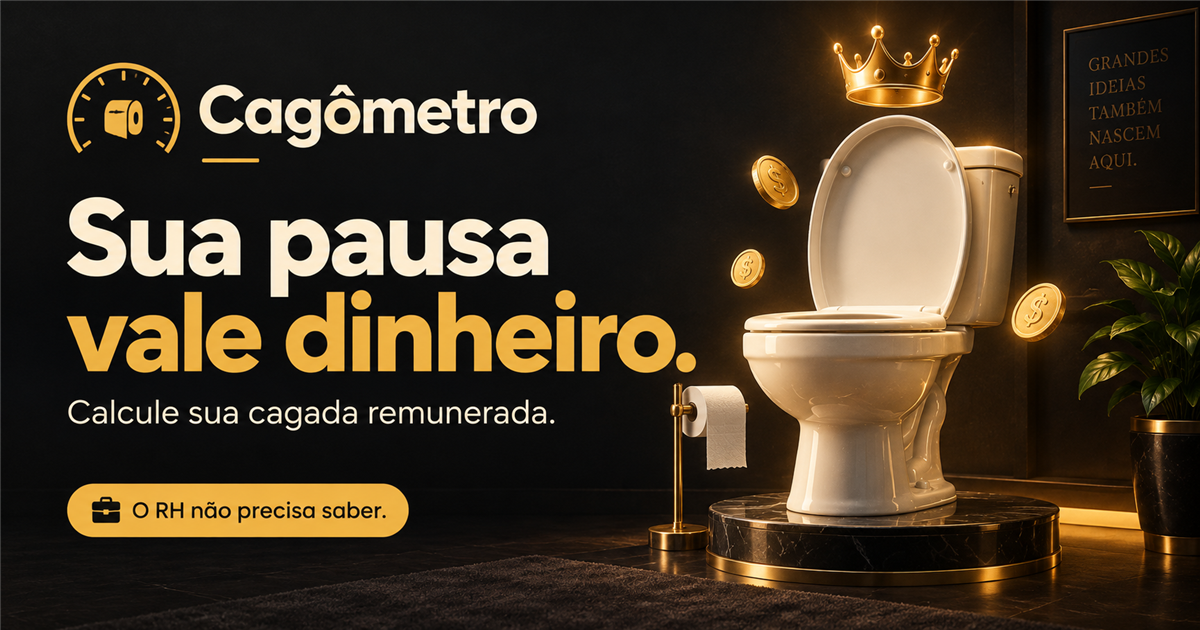
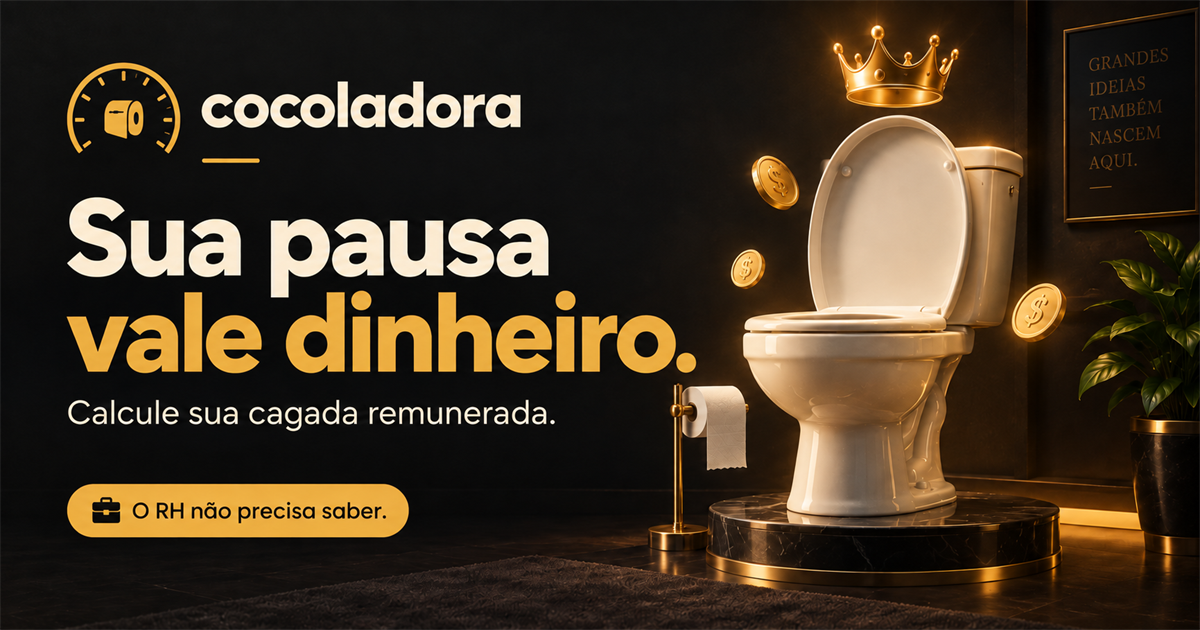
Renomeia o projeto para cocoladora
# Conflicts:
#	README.md

diff --git a/index.html b/index.html
@@ -4,26 +4,26 @@
   <meta charset="UTF-8">
   <meta name="viewport" content="width=device-width, initial-scale=1">
   <meta name="theme-color" content="#101216">
-  <title>Cagômetro | Calculadora de Cagada Remunerada</title>
+  <title>cocoladora | Calculadora de Cagada Remunerada</title>
   <meta name="description" content="Descubra quanto você ganha cagando no trabalho. Calcule sua pausa remunerada, acompanhe o tempo no trono e compartilhe seu extrato com a firma.">
-  <!-- Antes de publicar, substitua https://cagometro.example pelo domínio real em todas as tags abaixo. -->
-  <link rel="canonical" href="https://cagometro.example/">
+  <!-- Antes de publicar, substitua https://cocoladora.example pelo domínio real em todas as tags abaixo. -->
+  <link rel="canonical" href="https://cocoladora.example/">
   <meta property="og:locale" content="pt_BR">
-  <meta property="og:site_name" content="Cagômetro">
+  <meta property="og:site_name" content="cocoladora">
   <meta property="og:type" content="website">
-  <meta property="og:url" content="https://cagometro.example/">
-  <meta property="og:title" content="Sua pausa vale dinheiro. 💸 | Cagômetro">
+  <meta property="og:url" content="https://cocoladora.example/">
+  <meta property="og:title" content="Sua pausa vale dinheiro. 💸 | cocoladora">
   <meta property="og:description" content="Quanto você ganha no trono da firma? Calcule sua cagada remunerada. O RH não precisa saber.">
-  <meta property="og:image" content="https://cagometro.example/og-image.png">
+  <meta property="og:image" content="https://cocoladora.example/og-image.png">
   <meta property="og:image:width" content="1200">
   <meta property="og:image:height" content="630">
   <meta property="og:image:type" content="image/png">
-  <meta property="og:image:alt" content="Cagômetro: Sua pausa vale dinheiro. Um trono de porcelana com coroa e moedas douradas.">
+  <meta property="og:image:alt" content="cocoladora: Sua pausa vale dinheiro. Um trono de porcelana com coroa e moedas douradas.">
   <meta name="twitter:card" content="summary_large_image">
-  <meta name="twitter:title" content="Cagômetro — Sua pausa vale dinheiro.">
+  <meta name="twitter:title" content="cocoladora — Sua pausa vale dinheiro.">
   <meta name="twitter:description" content="Calcule sua cagada remunerada. O RH não precisa saber.">
-  <meta name="twitter:image" content="https://cagometro.example/og-image.png">
-  <meta name="twitter:image:alt" content="Sua pausa vale dinheiro. Calcule sua cagada remunerada no Cagômetro.">
+  <meta name="twitter:image" content="https://cocoladora.example/og-image.png">
+  <meta name="twitter:image:alt" content="Sua pausa vale dinheiro. Calcule sua cagada remunerada no cocoladora.">
   <link rel="icon" href="favicon.svg" type="image/svg+xml">
   <link rel="icon" href="favicon.png" type="image/png" sizes="32x32">
   <link rel="apple-touch-icon" href="apple-touch-icon.png">
@@ -32,12 +32,12 @@
   <link href="https://fonts.googleapis.com/css2?family=Outfit:wght@400;500;600;700;800&family=Space+Grotesk:wght@400;500;600;700&display=swap" rel="stylesheet">
   <link rel="stylesheet" href="style.css">
   <script src="script.js" defer></script>
-  <script type="application/ld+json">{"@context":"https://schema.org","@type":"WebApplication","name":"Cagômetro","description":"Calculadora divertida de pausas remuneradas no trabalho.","applicationCategory":"EntertainmentApplication","operatingSystem":"Any","inLanguage":"pt-BR","offers":{"@type":"Offer","price":"0","priceCurrency":"BRL"}}</script>
+  <script type="application/ld+json">{"@context":"https://schema.org","@type":"WebApplication","name":"cocoladora","description":"Calculadora divertida de pausas remuneradas no trabalho.","applicationCategory":"EntertainmentApplication","operatingSystem":"Any","inLanguage":"pt-BR","offers":{"@type":"Offer","price":"0","priceCurrency":"BRL"}}</script>
 </head>
 <body>
   <a class="skip" href="#calculadora">Pular para a calculadora</a>
   <header class="header shell">
-    <a class="brand" href="#" aria-label="Cagômetro, início"><span class="brand-icon" aria-hidden="true">🧻</span>Cagômetro<span class="brand-dot">®</span></a>
+    <a class="brand" href="#" aria-label="cocoladora, início"><span class="brand-icon" aria-hidden="true">🧻</span>cocoladora<span class="brand-dot">®</span></a>
     <nav aria-label="Navegação principal"><a href="#calculadora">Calculadora</a><a href="#trono">Modo trono</a></nav>
     <button class="theme-toggle" id="theme" aria-label="Ativar tema claro" title="Trocar tema">☀</button>
   </header>
@@ -82,7 +82,7 @@
         <div class="receipt-rule"></div>
         <div class="receipt-stats"><div><span aria-hidden="true">◷</span><strong id="annual-time">2,8 dias</strong><small>no trono por ano</small></div><div><span aria-hidden="true">🧻</span><strong id="paper">27 rolos</strong><small>de papel estimados / ano</small></div></div>
         <button type="button" class="button share-button" id="share-open">Compartilhar meu extrato <span aria-hidden="true">↗</span></button>
-        <div class="receipt-bottom">CAGÔMETRO <span>COMPROVANTE NÃO FISCAL ;)</span></div>
+        <div class="receipt-bottom">COCOLADORA <span>COMPROVANTE NÃO FISCAL ;)</span></div>
         <span id="calculation-status" class="sr-only" role="status"></span>
       </article>
     </section>
@@ -100,7 +100,7 @@
     <section class="how"><details><summary>Tá, mas como essa conta funciona? <span aria-hidden="true">+</span></summary><p>Dividimos o salário pelos dias trabalhados e pelas horas por dia para encontrar o valor da sua hora. Multiplicamos esse valor pelo tempo diário no banheiro. O ano considera 12 meses iguais, sem férias, feriados ou 13º. O tempo anual é convertido em dias de 24 horas. Para o papel, a brincadeira estima 20 folhas por dia de trabalho e 200 folhas por rolo. Não é renda extra: é uma estimativa da parcela do seu salário correspondente às pausas.</p></details><details><summary>Últimas sessões no trono <span aria-hidden="true">+</span></summary><ul id="history"><li>Nenhuma sessão ainda. Seu reinado começa no play.</li></ul></details></section>
     <aside class="closing"><span aria-hidden="true">✳</span> Pequenas pausas. Grandes rendimentos.<span>O RH não precisa saber.</span></aside>
   </main>
-  <footer class="shell footer"><a class="brand" href="#">🧻 Cagômetro</a><p>Feito com humor. E tempo de expediente.</p><span>Uma brincadeira, não uma recomendação financeira.</span></footer>
+  <footer class="shell footer"><a class="brand" href="#">🧻 cocoladora</a><p>Feito com humor. E tempo de expediente.</p><span>Uma brincadeira, não uma recomendação financeira.</span></footer>
   <dialog id="share-dialog" aria-labelledby="share-title"><div class="dialog-heading"><h2 id="share-title">Manda no grupo da firma.</h2><button class="theme-toggle" id="share-close" aria-label="Fechar compartilhamento">×</button></div><canvas id="share-card" width="1200" height="630" aria-label="Card com seu rendimento mensal" role="img"></canvas><div class="dialog-actions"><button class="button primary" id="download-card">Baixar card PNG ↓</button><button class="button secondary" id="copy-link">Copiar link</button></div><p id="share-status" role="status">Pronto para salvar e compartilhar onde quiser.</p></dialog>
   <p class="toast" id="toast" role="status" hidden></p>
 </body>

diff --git a/script.js b/script.js
@@ -2,7 +2,7 @@
 const $ = (id) => document.getElementById(id);
 const brl = new Intl.NumberFormat('pt-BR', { style: 'currency', currency: 'BRL' });
 const number = new Intl.NumberFormat('pt-BR', { maximumFractionDigits: 1 });
-const KEY = 'cagometro-v1';
+const KEY = 'cocoladora-v1';
 let saved = {};
 try { saved = JSON.parse(localStorage.getItem(KEY) || '{}') || {}; } catch { /* Continua funcionando sem armazenamento. */ }
 if (typeof saved !== 'object' || Array.isArray(saved)) saved = {};
@@ -93,7 +93,7 @@ function drawCard() {
   const canvas = $('share-card'), c = canvas.getContext('2d');
   c.fillStyle = '#101216'; c.fillRect(0, 0, 1200, 630);
   c.fillStyle = '#ffbd45'; c.fillRect(65, 62, 9, 42);
-  c.font = '600 36px Outfit, sans-serif'; c.fillText('Cagômetro', 92, 97);
+  c.font = '600 36px Outfit, sans-serif'; c.fillText('cocoladora', 92, 97);
   c.fillStyle = '#a3a7ad'; c.font = '20px Space Grotesk, monospace'; c.fillText('EXTRATO DA PAUSA REMUNERADA', 66, 171);
   c.fillStyle = '#f5f3eb'; c.font = '500 40px Outfit, sans-serif'; c.fillText('Este mês eu ganhei', 66, 245);
   c.fillStyle = '#ffbd45'; let fontSize = 100; const value = brl.format(result.monthly);
@@ -101,7 +101,7 @@ function drawCard() {
   c.fillText(value, 60, 365);
   c.fillStyle = '#f5f3eb'; c.font = '500 40px Outfit, sans-serif'; c.fillText('só cagando na empresa!', 66, 432);
   c.strokeStyle = '#353940'; c.setLineDash([6, 7]); c.beginPath(); c.moveTo(66, 483); c.lineTo(1134, 483); c.stroke(); c.setLineDash([]);
-  c.fillStyle = '#a3a7ad'; c.font = '23px Outfit, sans-serif'; c.fillText('Faça seu cálculo no Cagômetro.', 66, 548);
+  c.fillStyle = '#a3a7ad'; c.font = '23px Outfit, sans-serif'; c.fillText('Faça seu cálculo no cocoladora.', 66, 548);
   c.fillStyle = '#ffbd45'; c.font = '18px Outfit, sans-serif'; c.fillText('O RH não precisa saber.', 912, 548);
 }
 $('share-open').addEventListener('click', async () => { drawCard(); $('share-dialog').showModal(); $('share-status').textContent = 'Pronto para salvar e compartilhar onde quiser.'; await document.fonts.ready; drawCard(); });
@@ -110,7 +110,7 @@ $('share-dialog').addEventListener('click', e => { if (e.target === $('share-dia
 $('download-card').addEventListener('click', () => {
   $('share-card').toBlob(blob => {
     if (!blob) { $('share-status').textContent = 'Não foi possível gerar o PNG. Tente novamente.'; return; }
-    const url = URL.createObjectURL(blob), a = document.createElement('a'); a.href = url; a.download = 'meu-extrato-cagometro.png'; a.click(); setTimeout(() => URL.revokeObjectURL(url), 10000);
+    const url = URL.createObjectURL(blob), a = document.createElement('a'); a.href = url; a.download = 'meu-extrato-cocoladora.png'; a.click(); setTimeout(() => URL.revokeObjectURL(url), 10000);
     $('share-status').textContent = 'Card gerado! Confira os downloads do navegador.';
   }, 'image/png');
 });

diff --git a/README.md b/README.md
@@ -1,18 +1,22 @@
 <div align="center">
 
-# 💩 Cagômetro
+# cocoladora
+
+# 💩 cocoladora
 
 ### Descubra quanto do seu salário está sendo investido em momentos de reflexão.
 
 Uma calculadora divertida para estimar o valor financeiro das suas pausas remuneradas — porque produtividade também é saber a hora de ir ao banheiro. 🚽💸
 
-![Cagômetro](og-image.png)
+![cocoladora](og-image.png)
+
+A imagem `og-image.png` tem 1200 × 630 pixels. Antes de publicar, substitua **todas** as ocorrências de `https://cocoladora.example` em `index.html` pelo domínio HTTPS público definitivo. O domínio é um marcador reservado, não um endereço de produção. As URLs absolutas de Open Graph e Twitter devem estar presentes no HTML, sem depender de JavaScript. Hospede os arquivos estáticos com acesso público, incluindo a imagem e os ícones. O servidor local não é destinado à produção.
 
 </div>
 
 ---
 
-## ✨ O que o Cagômetro faz?
+## ✨ O que o cocoladora faz?
 
 - Calcula quanto vale cada minuto do seu trabalho.
 - Estima o valor de uma pausa remunerada.
@@ -41,7 +45,7 @@ Não é necessário instalar dependências ou executar uma etapa de build.
 
 ## 🧮 Como os cálculos funcionam?
 
-O Cagômetro usa:
+O cocoladora usa:
 
 - Salário mensal;
 - Dias trabalhados;
@@ -90,11 +94,11 @@ Porque alguém precisava responder, com dados, à pergunta:
 
 > “Quanto vale exatamente essa pausa que eu acabei de fazer?”
 
-O Cagômetro transforma uma dúvida existencial em gráficos, números e uma quantidade questionável de orgulho.
+O cocoladora transforma uma dúvida existencial em gráficos, números e uma quantidade questionável de orgulho.
 
 ## ⚠ Antes de publicar
 
-As URLs `https://cagometro.example` presentes no HTML são apenas marcadores. Substitua-as pelo domínio público definitivo para que os previews de compartilhamento funcionem corretamente.
+As URLs `https://cocoladora.example` presentes no HTML são apenas marcadores. Substitua-as pelo domínio público definitivo para que os previews de compartilhamento funcionem corretamente.
 
 ## 🤝 Contribuições
 
